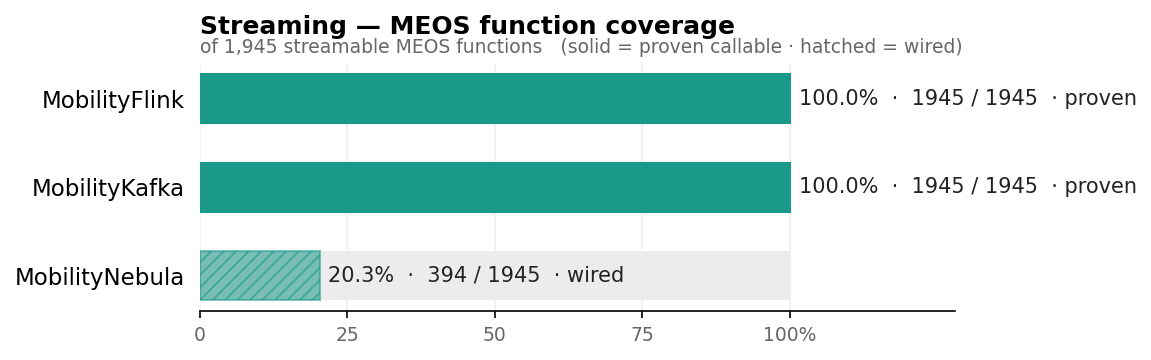
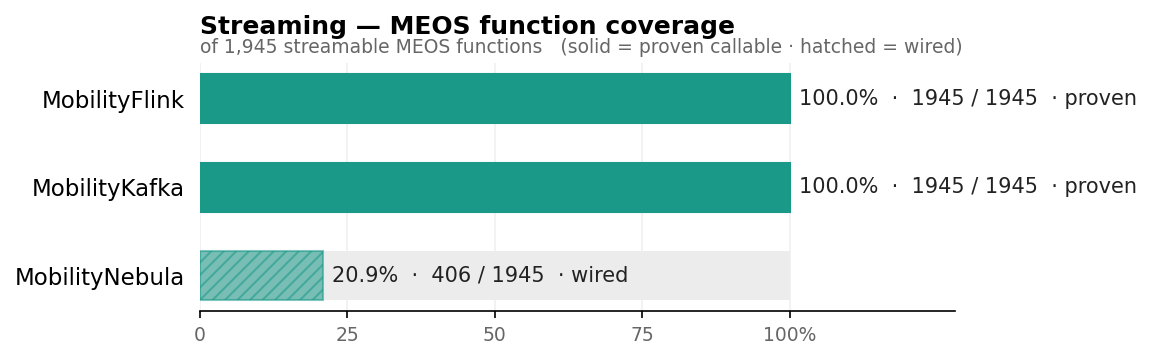
docs(streaming): MobilityNebula 406 wired, 61 callable (cross-vehicle temporal combinators)

Changed region(s): [[0.2737, 0.7028, 0.5474, 0.825]]

diff --git a/profile/images/coverage_charts.py b/profile/images/coverage_charts.py
@@ -56,7 +56,7 @@ hbar(
     [
         ("MobilityFlink",  100.0, "100.0%  ·  1945 / 1945  · proven", "#1a9988", True),
         ("MobilityKafka",  100.0, "100.0%  ·  1945 / 1945  · proven", "#1a9988", True),
-        ("MobilityNebula",  20.3, "20.3%  ·  394 / 1945  · wired",    "#1a9988", False),
+        ("MobilityNebula",  20.9, "20.9%  ·  406 / 1945  · wired",    "#1a9988", False),
     ],
     "of 1,945 streamable MEOS functions   (solid = proven callable · hatched = wired)",
 )

diff --git a/profile/streaming-parity.md b/profile/streaming-parity.md
@@ -18,7 +18,7 @@ deploy on real workloads?* — with reproducible evidence rather than assertion.
 
 Coverage of the **1,945 streamable MEOS functions** — confirmed callable on a real `libmeos`:
 
-<img src="https://raw.githubusercontent.com/MobilityDB/.github/main/profile/images/streaming-coverage.png?v=17" width="760" alt="Streaming MEOS function coverage of 1,945 streamable functions: MobilityFlink 100.0% (1945/1945, proven callable), MobilityKafka 100.0% (1945/1945, proven callable), MobilityNebula 20.3% (394/1945, wired)" />
+<img src="https://raw.githubusercontent.com/MobilityDB/.github/main/profile/images/streaming-coverage.png?v=18" width="760" alt="Streaming MEOS function coverage of 1,945 streamable functions: MobilityFlink 100.0% (1945/1945, proven callable), MobilityKafka 100.0% (1945/1945, proven callable), MobilityNebula 20.9% (406/1945, wired)" />
 
 - **Correctness** — all **9 BerlinMOD queries × 3 streaming forms = 27/27 cells** reproduce the batch result on every platform; the Flink snapshot output is **byte-identical** to the batch oracle.
 
@@ -55,7 +55,7 @@ Three layers, increasing in strength:
 |---|--:|--:|--:|
 | **MobilityFlink**  | **1,945 callable** | 1,945 | **100.0 %** |
 | **MobilityKafka**  | **1,945 callable** | 1,945 | **100.0 %** |
-| **MobilityNebula** | 59 systest-confirmed | 394 wired · compile-verified | 20.3 % wired |
+| **MobilityNebula** | 61 systest-confirmed | 406 wired · compile-verified | 20.9 % wired |
 
 Flink and Kafka share one generated JNR-FFI facade, so their callability is identical;
 it is confirmed by a type-aware per-method harness that invokes **every** facade method
